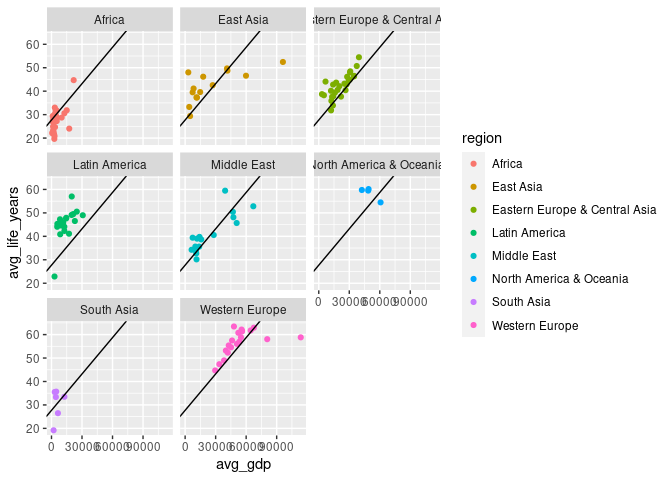
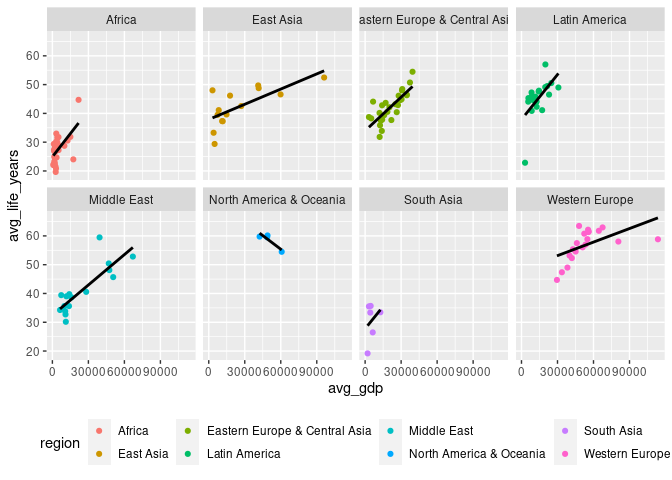
added linear regression models to graphs

diff --git a/presentation/CopyOfxaringan_template/presentation.html b/presentation/CopyOfxaringan_template/presentation.html
@@ -4,7 +4,7 @@
     <title>Happiness Around the World in the Face of Covid</title>
     <meta charset="utf-8" />
     <meta name="author" content="MZM   Milosz, Zeynep, Marco" />
-    <meta name="date" content="2021-11-24" />
+    <meta name="date" content="2021-11-25" />
     <script src="libs/header-attrs-2.11/header-attrs.js"></script>
     <link rel="stylesheet" href="xaringan-themer.css" type="text/css" />
   </head>
@@ -15,7 +15,7 @@ class: center, middle, inverse, title-slide
 # Happiness Around the World in the Face of Covid
 ### MZM <br> Milosz, Zeynep, Marco
 ### University of Edinburgh
-### 2021-11-24
+### 2021-11-25
 
 ---
 

diff --git a/extra/Project_Research.md b/extra/Project_Research.md
@@ -6,9 +6,9 @@ MZM
     ## ── Attaching packages ─────────────────────────────────────── tidyverse 1.3.1 ──
 
     ## ✓ ggplot2 3.3.5     ✓ purrr   0.3.4
-    ## ✓ tibble  3.1.6     ✓ dplyr   1.0.7
-    ## ✓ tidyr   1.1.4     ✓ stringr 1.4.0
-    ## ✓ readr   2.1.0     ✓ forcats 0.5.1
+    ## ✓ tibble  3.1.3     ✓ dplyr   1.0.7
+    ## ✓ tidyr   1.1.3     ✓ stringr 1.4.0
+    ## ✓ readr   2.0.0     ✓ forcats 0.5.1
 
     ## ── Conflicts ────────────────────────────────────────── tidyverse_conflicts() ──
     ## x dplyr::filter() masks stats::filter()
@@ -36,14 +36,14 @@ MZM
     ##   method                   from   
     ##   required_pkgs.model_spec parsnip
 
-    ## ── Attaching packages ────────────────────────────────────── tidymodels 0.1.4 ──
+    ## ── Attaching packages ────────────────────────────────────── tidymodels 0.1.3 ──
 
-    ## ✓ broom        0.7.10     ✓ rsample      0.1.1 
-    ## ✓ dials        0.0.10     ✓ tune         0.1.6 
-    ## ✓ infer        1.0.0      ✓ workflows    0.2.4 
+    ## ✓ broom        0.7.9      ✓ rsample      0.1.0 
+    ## ✓ dials        0.0.9      ✓ tune         0.1.6 
+    ## ✓ infer        0.5.4      ✓ workflows    0.2.3 
     ## ✓ modeldata    0.1.1      ✓ workflowsets 0.1.0 
-    ## ✓ parsnip      0.1.7      ✓ yardstick    0.0.9 
-    ## ✓ recipes      0.1.17
+    ## ✓ parsnip      0.1.7      ✓ yardstick    0.0.8 
+    ## ✓ recipes      0.1.16
 
     ## ── Conflicts ───────────────────────────────────────── tidymodels_conflicts() ──
     ## x broom::bootstrap() masks modelr::bootstrap()
@@ -56,7 +56,7 @@ MZM
     ## x yardstick::rmse()  masks modelr::rmse()
     ## x yardstick::spec()  masks readr::spec()
     ## x recipes::step()    masks stats::step()
-    ## • Learn how to get started at https://www.tidymodels.org/start/
+    ## • Use tidymodels_prefer() to resolve common conflicts.
 
     ## Warning in eval(substitute(list(...)), `_data`, parent.frame()): NAs introduced
     ## by coercion
@@ -121,9 +121,15 @@ summarised_gdp_hpi %>%
   ggplot(aes(x = avg_gdp, y = avg_life_years, 
              colour = region)) +
   geom_point() +
-  geom_abline(aes(slope = 0.000517, intercept = 27.7)) +
-  facet_wrap(~region)
+  geom_smooth(method = "lm", 
+              formula = y~x,
+              se =  FALSE,
+              colour = "black") +
+  facet_wrap(~region, nrow = 2) +
+  theme(legend.position = "bottom")
 ```
+
+    ## Warning: Removed 13 rows containing non-finite values (stat_smooth).
 
     ## Warning: Removed 13 rows containing missing values (geom_point).
 
@@ -264,7 +270,7 @@ df <- data_frame(x = c(1,2), y = c(2,4))
     ## Warning: `data_frame()` was deprecated in tibble 1.1.0.
     ## Please use `tibble()` instead.
     ## This warning is displayed once every 8 hours.
-    ## Call `lifecycle::last_lifecycle_warnings()` to see where this warning was generated.
+    ## Call `lifecycle::last_warnings()` to see where this warning was generated.
 
 ``` r
 ggplot(df, aes(x = x, y = y)) +
